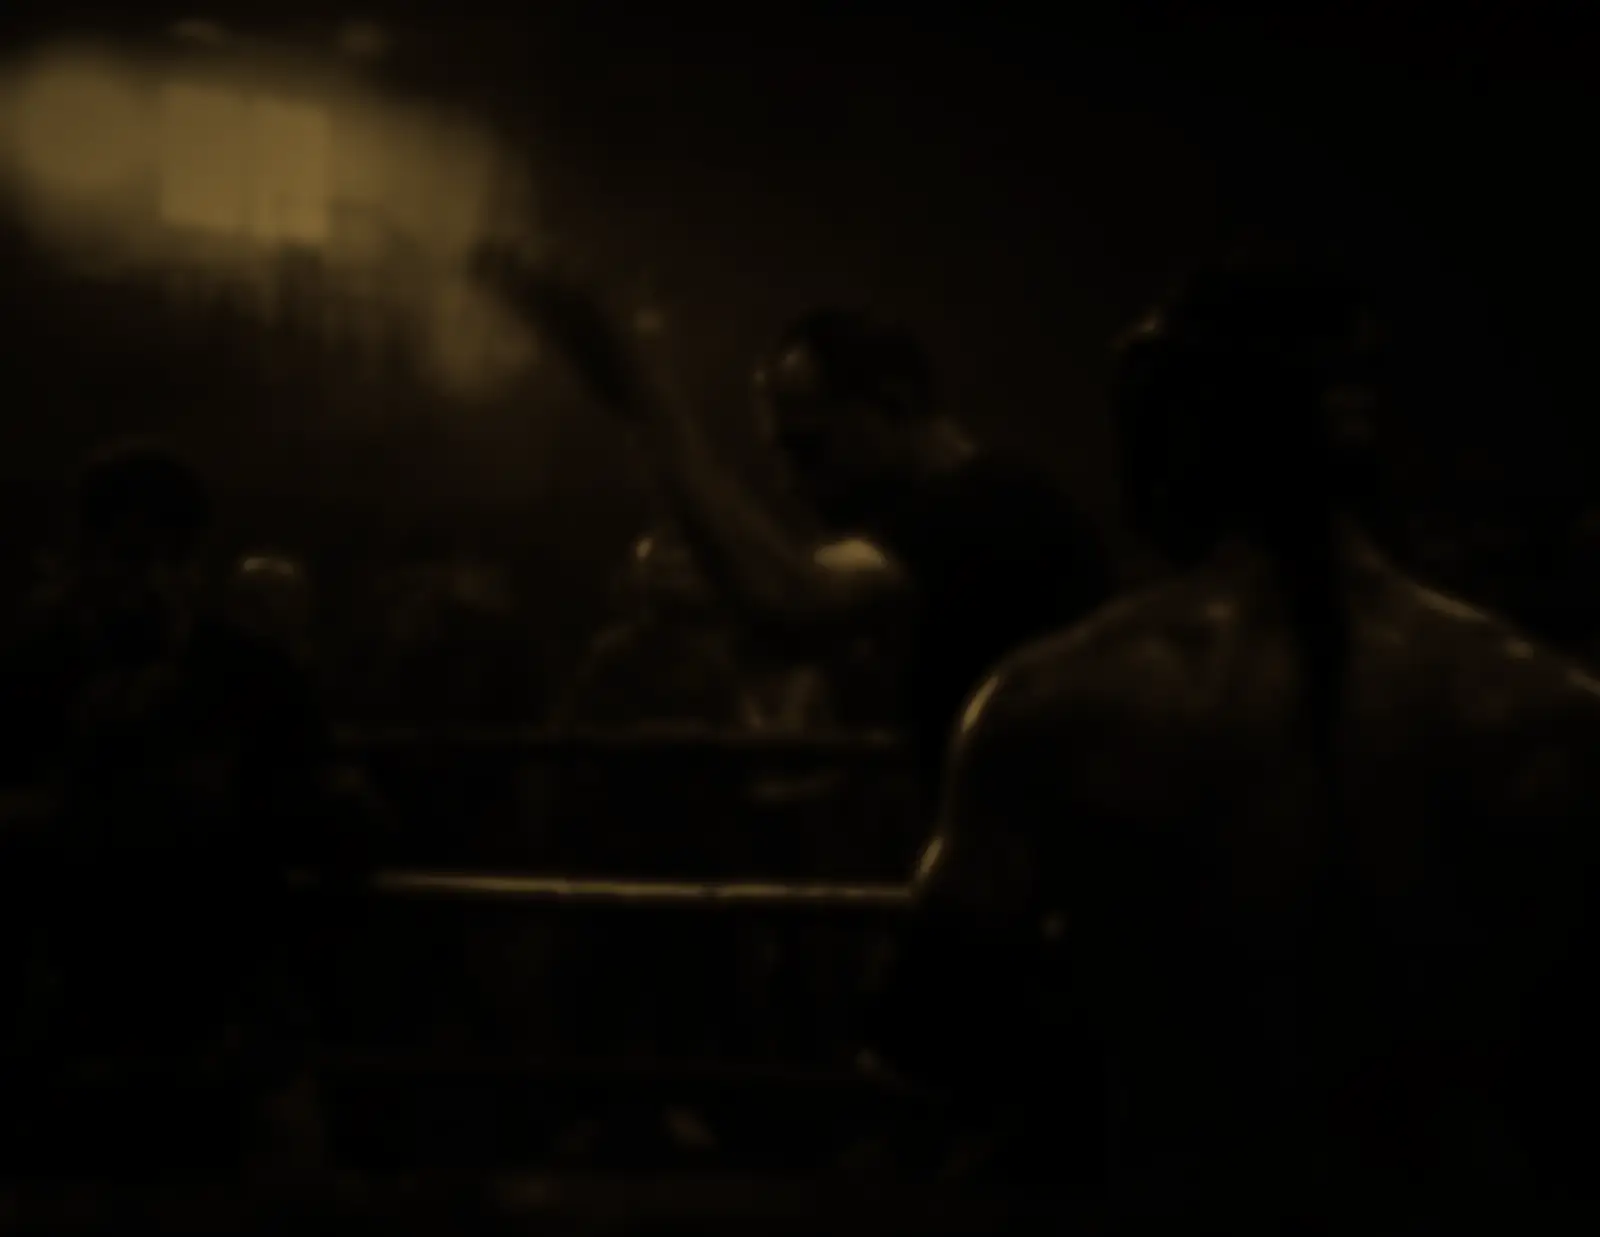
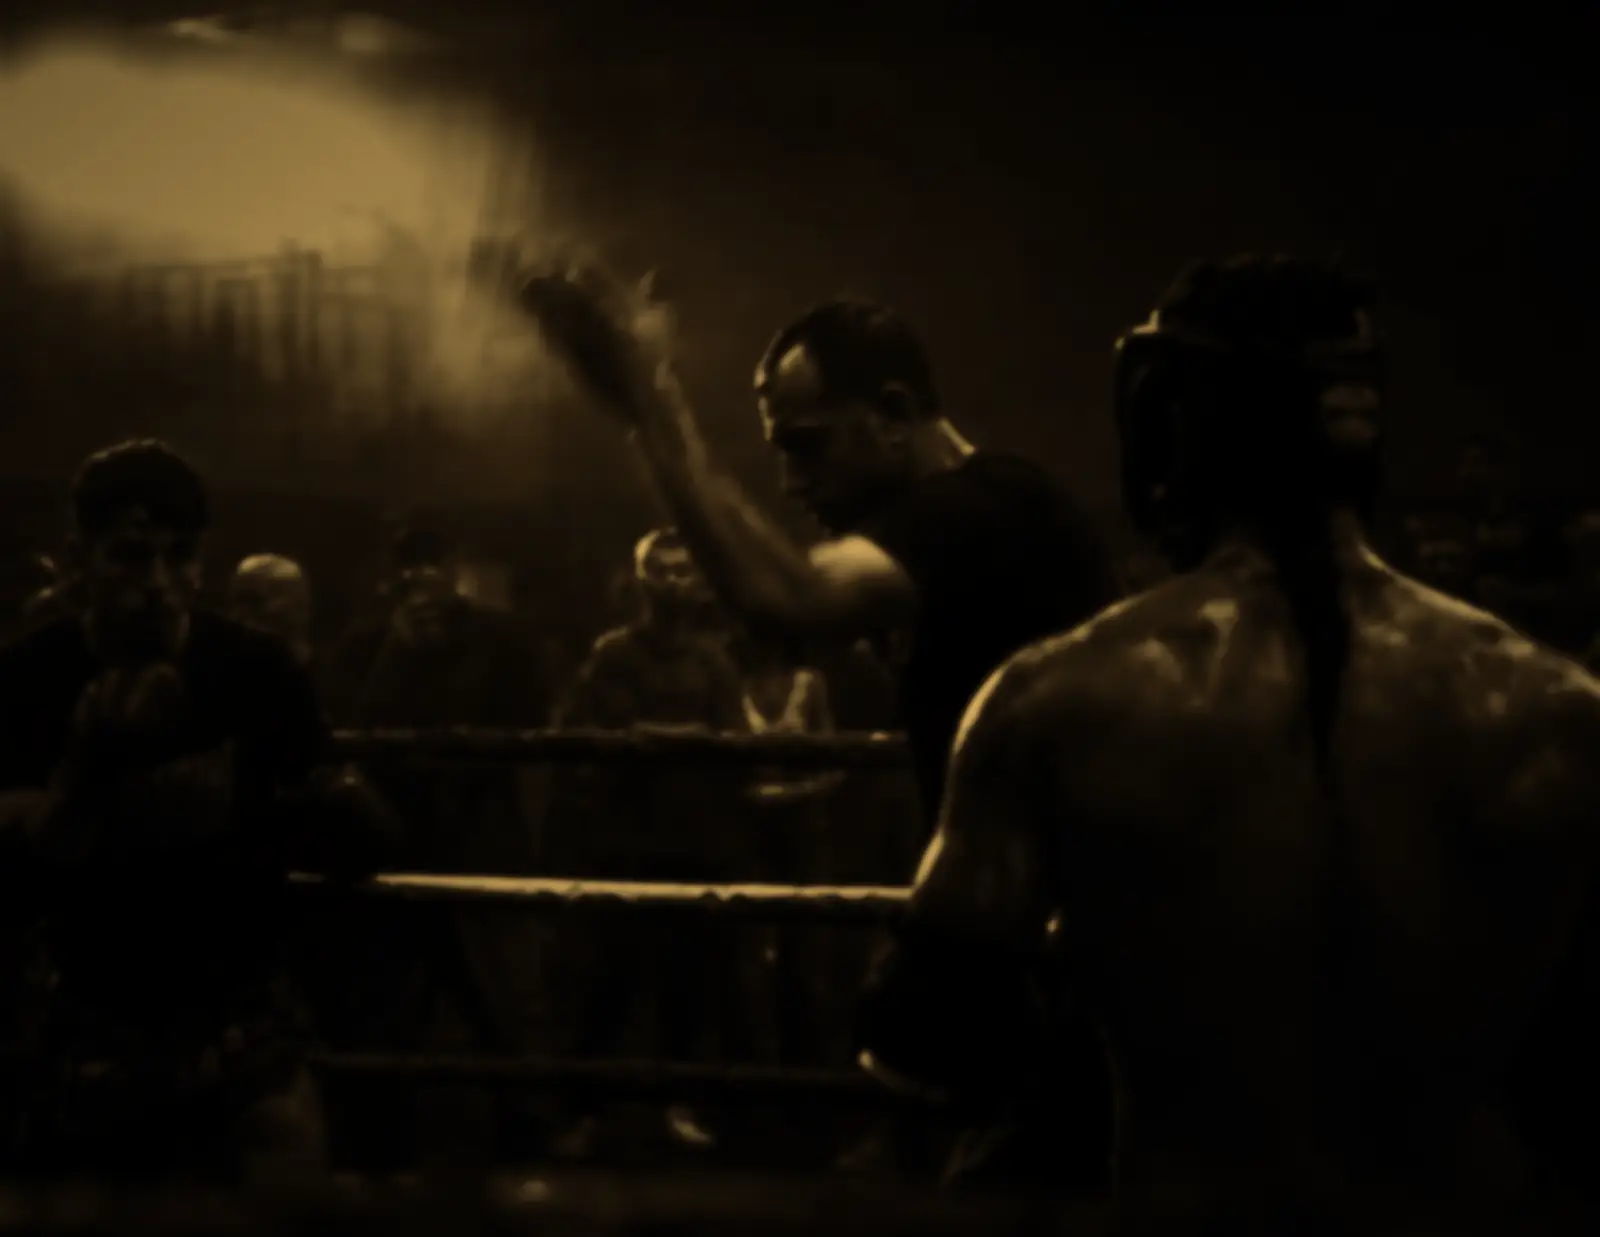
AMS: רקע הזירה בולט יותר – תמונה חדה ומוארת יותר, שכבת הכהות דקה יותר, וצל טקסט עדין לקריאוּת
Claude-Session: https://claude.ai/code/session_01VkvNTHQcGzsA8yY2426P4w

diff --git a/ams/css/ams.css b/ams/css/ams.css
@@ -83,14 +83,14 @@ html { font-synthesis: none; scroll-behavior: smooth; scroll-padding-top: var(--
 body::before {
   content: ""; position: fixed; inset: 0; z-index: -1; pointer-events: none;
   background:
-    radial-gradient(ellipse 70% 55% at 50% 0%, rgba(212, 162, 76, .10), transparent 70%),
-    linear-gradient(to bottom, rgba(22, 17, 12, .30), rgba(22, 17, 12, .62)),
+    radial-gradient(ellipse 70% 55% at 50% 0%, rgba(212, 162, 76, .14), transparent 70%),
+    linear-gradient(to bottom, rgba(22, 17, 12, .08), rgba(22, 17, 12, .38)),
     url("../assets/img/backdrop.webp") center 30% / cover no-repeat;
 }
 @media (max-width: 760px) {
   body::before {
     background:
-      linear-gradient(to bottom, rgba(22, 17, 12, .35), rgba(22, 17, 12, .65)),
+      linear-gradient(to bottom, rgba(22, 17, 12, .15), rgba(22, 17, 12, .45)),
       url("../assets/img/backdrop-m.webp") 60% 30% / cover no-repeat;
   }
 }
@@ -967,3 +967,7 @@ ul, ol { list-style: none; }
   .gallery { grid-template-columns: 1fr 1fr; }
   .gallery figure:first-child { grid-column: 1 / -1; }
 }
+
+/* טקסט מעל רקע הזירה: צל עדין שומר על קריאוּת גם באזורים המוארים של התמונה */
+main .section { text-shadow: 0 1px 3px rgba(0, 0, 0, .6); }
+main .section .btn, main .section .chip span, .bubble { text-shadow: none; }
